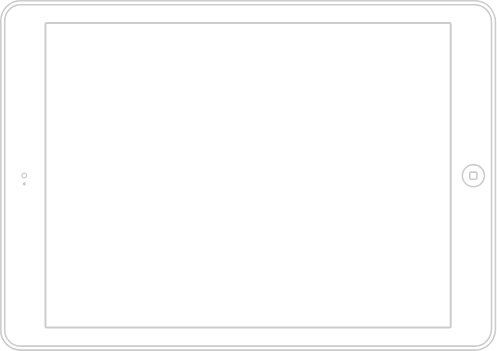
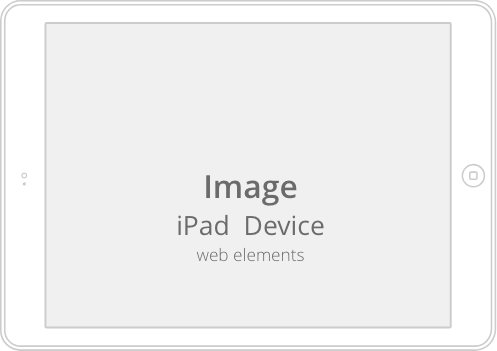
Implementations and adjustments

Changed region(s): [[0.332, 0.5983, 0.664, 0.6838], [0.3924, 0.4843, 0.6036, 0.5983], [0.3924, 0.7123, 0.6338, 0.7407]]

diff --git a/src/styles.scss b/src/styles.scss
@@ -18,19 +18,21 @@ header {
   //Top Bar
   .divTopBar {
     border-bottom: 1px solid #222f3d;
+    padding-bottom: 60px;
+
     .logo {
+      position: absolute;
+      right: 1;
       font-family: "Arial", sans-serif;
       font-size: 30px;
-      padding: 1% 0 0% 20%;
-      margin-bottom: -20px;
+      padding: 1% 2% 1% 15%;
     }
+
     //Menu
     .menu {
-      position: relative;
-      display: block;
-      list-style-type: none;
-      margin: -1% 50% 1% 68%;
-
+      position: absolute;
+      right: 0;
+      padding: 2% 15% 0 1%;
       a {
         color: #7e95ae;
         text-decoration: none;
@@ -60,16 +62,19 @@ header {
     }
     .img {
       position: absolute;
-      display: block;
-      transform: translate(307px, 39px);
+      width: 50%;
+      left: 25%;
+      margin-top: 20px;
+    }
+    .img-content {
+      width: 55%;
     }
 
     a {
       position: absolute;
-      display: block;
-      transform: translate(75%, 19.9%);
-      background: #ffffff21;
-      padding: 6.2% 13.9% 6.2% 13.9%;
+      width: 25%;
+      left: 37%;
+      margin-top: 8%;
     }
   }
 }
@@ -98,17 +103,10 @@ content {
 
     img {
     }
-    .img-content {
-      position: absolute;
-      transform: translate(-134%, 150%);
-      margin-top: 1%;
-    }
 
     a {
       position: absolute;
-      transform: translate(-111.6%, 7.9%);
-      background: rgba(204, 204, 204, 0.473);
-      padding: 1% 10.1% 10.1% 9%;
+      transform: translate(-300%, 50%);
     }
   }
   //
@@ -224,6 +222,7 @@ content {
       line-height: 150%;
     }
 
+    //-----------------Form-----------------//
     form {
       input {
         border-radius: 2px;
@@ -266,6 +265,9 @@ footer {
     a {
       color: #6b6b6b;
       text-decoration: none;
+    }
+    a:hover {
+      color: #222f3d;
     }
 
     li {

diff --git a/src/content.js b/src/content.js
@@ -21,11 +21,9 @@ img.src = "/images/iPad-Air.png";
 img.className = "img";
 const linkAbount = document.createElement("a");
 linkAbount.href = "#";
-const imgContent = document.createElement("img");
-imgContent.src = "/images/Image-iPad-Deviceweb-elements.png";
-imgContent.className = "img-content";
+
 const linkImgDw = document.createElement("img");
-linkImgDw.src = "/images/download-icon.png";
+linkImgDw.src = "/images/download-icon-b.png";
 const descriptionAbout = document.createElement("p");
 descriptionAbout.textContent =
   "Lorem ipsum dolor sit amet, consectetuer adipiscing elit. Aenean commodo ligula eget dolor. Aenean massa. Cum sociis natoque penatibus et magnis dis parturient montes, nascetur ridiculus mus. Donec quam felis, ultricies nec, pellentesque eu, pretium quis, sem. Nulla consequat massa quis enim. Donec pede justo, fringilla vel, aliquet nec, vulputate eget, arcu.";
@@ -37,7 +35,6 @@ sectionAbount.appendChild(textAbout);
 sectionAbount.appendChild(img);
 sectionAbount.appendChild(linkAbount);
 linkAbount.appendChild(linkImgDw);
-sectionAbount.appendChild(imgContent);
 sectionAbount.appendChild(descriptionAbout);
 
 //
@@ -57,6 +54,7 @@ textOurTem.textContent =
 
 const Team = ["M", "F", "M", "F"];
 
+//------Renderizando lista de team ------//
 const team = Team.map(item => {
   const div = document.createElement("div");
   div.className = "team";
@@ -138,6 +136,7 @@ const list = [
   "Design"
 ];
 
+//------Renderizando works ------//
 const listar = list.map(item => {
   if (item !== "none") {
     const a = document.createElement("a");

diff --git a/src/footer.js b/src/footer.js
@@ -7,6 +7,7 @@ const copyright = document.createElement("p");
 copyright.textContent = "Copyright © Your Company 2014. All Rights Reserved";
 
 const itemMenu = ["Home", "About", "Team", "Portfolio", "Contact"];
+//------Renderizando menu ------//
 const listMenu = itemMenu.map(item => {
   const li = document.createElement("li");
   const itemLink = document.createElement("a");

diff --git a/src/header.js b/src/header.js
@@ -14,6 +14,8 @@ menu.className = "menu";
 
 //Fazer loop para incluir itens do menu
 const itemMenu = ["Home", "About", "Team", "Portfolio", "Contact"];
+
+//------Renderizando menu ------//
 const listMenu = itemMenu.map(item => {
   const li = document.createElement("li");
   const itemLink = document.createElement("a");
